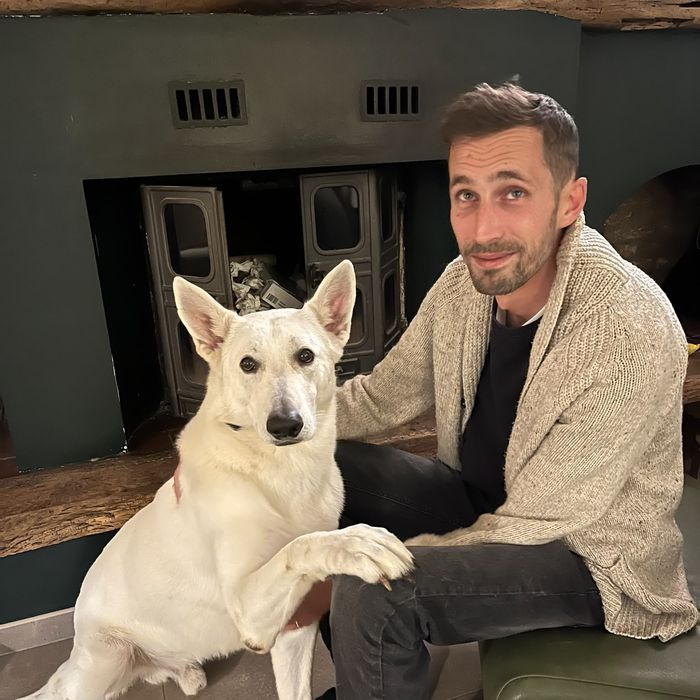
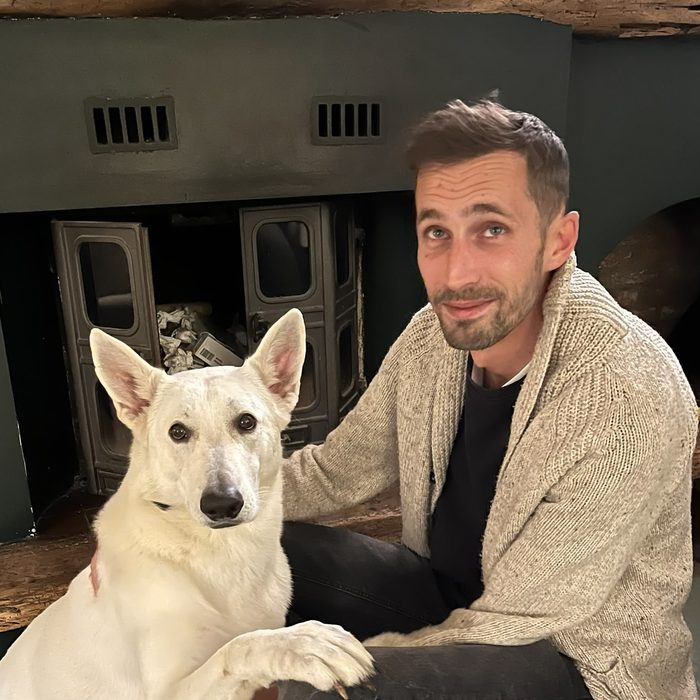
Poils & Plumes site: new Virgile photo, recentred duo photo
Claude-Session: https://claude.ai/code/session_01D7EB6VavzcRcxYkajQJdM2

diff --git a/portfolio-pp/index.html b/portfolio-pp/index.html
@@ -326,7 +326,7 @@ footer { padding-block: 0 32px; display: flex; flex-wrap: wrap; justify-content:
       </figure>
     </div>
     <div class="album">
-      <img src="img/virgile-dos.jpg" width="700" height="700" loading="lazy" alt="Virgile couché sur le dos, les pattes en l'air">
+      <img src="img/virgile-dos.jpg" width="700" height="700" loading="lazy" alt="Virgile allongé dans l'herbe, la langue pendante">
       <img src="img/duo.jpg" width="700" height="700" loading="lazy" alt="Quentin assis avec Virgile">
       <img src="img/cleo-dos.jpg" width="700" height="700" loading="lazy" alt="Cléo allongé sur le dos dans le canapé">
     </div>
